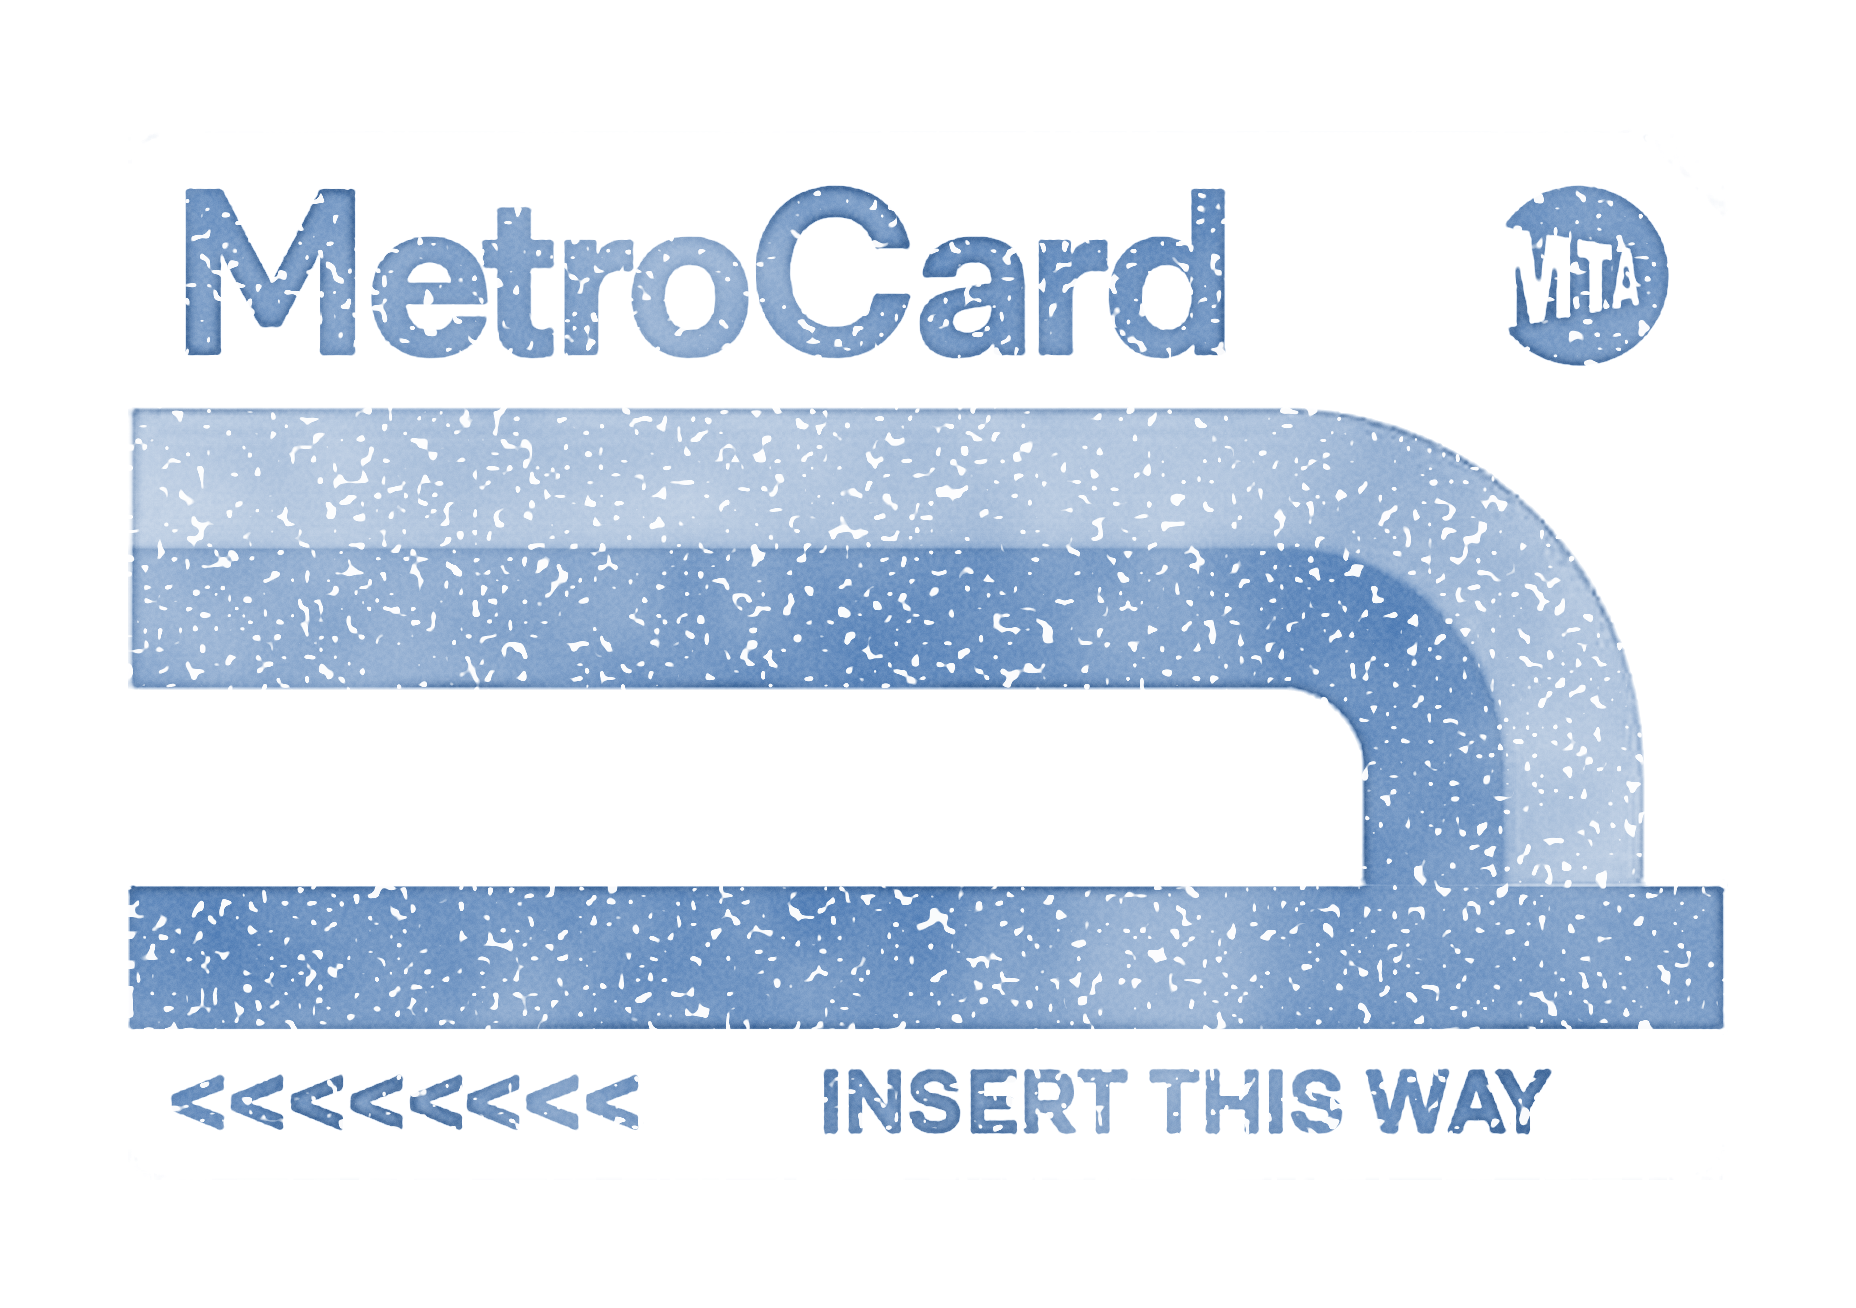
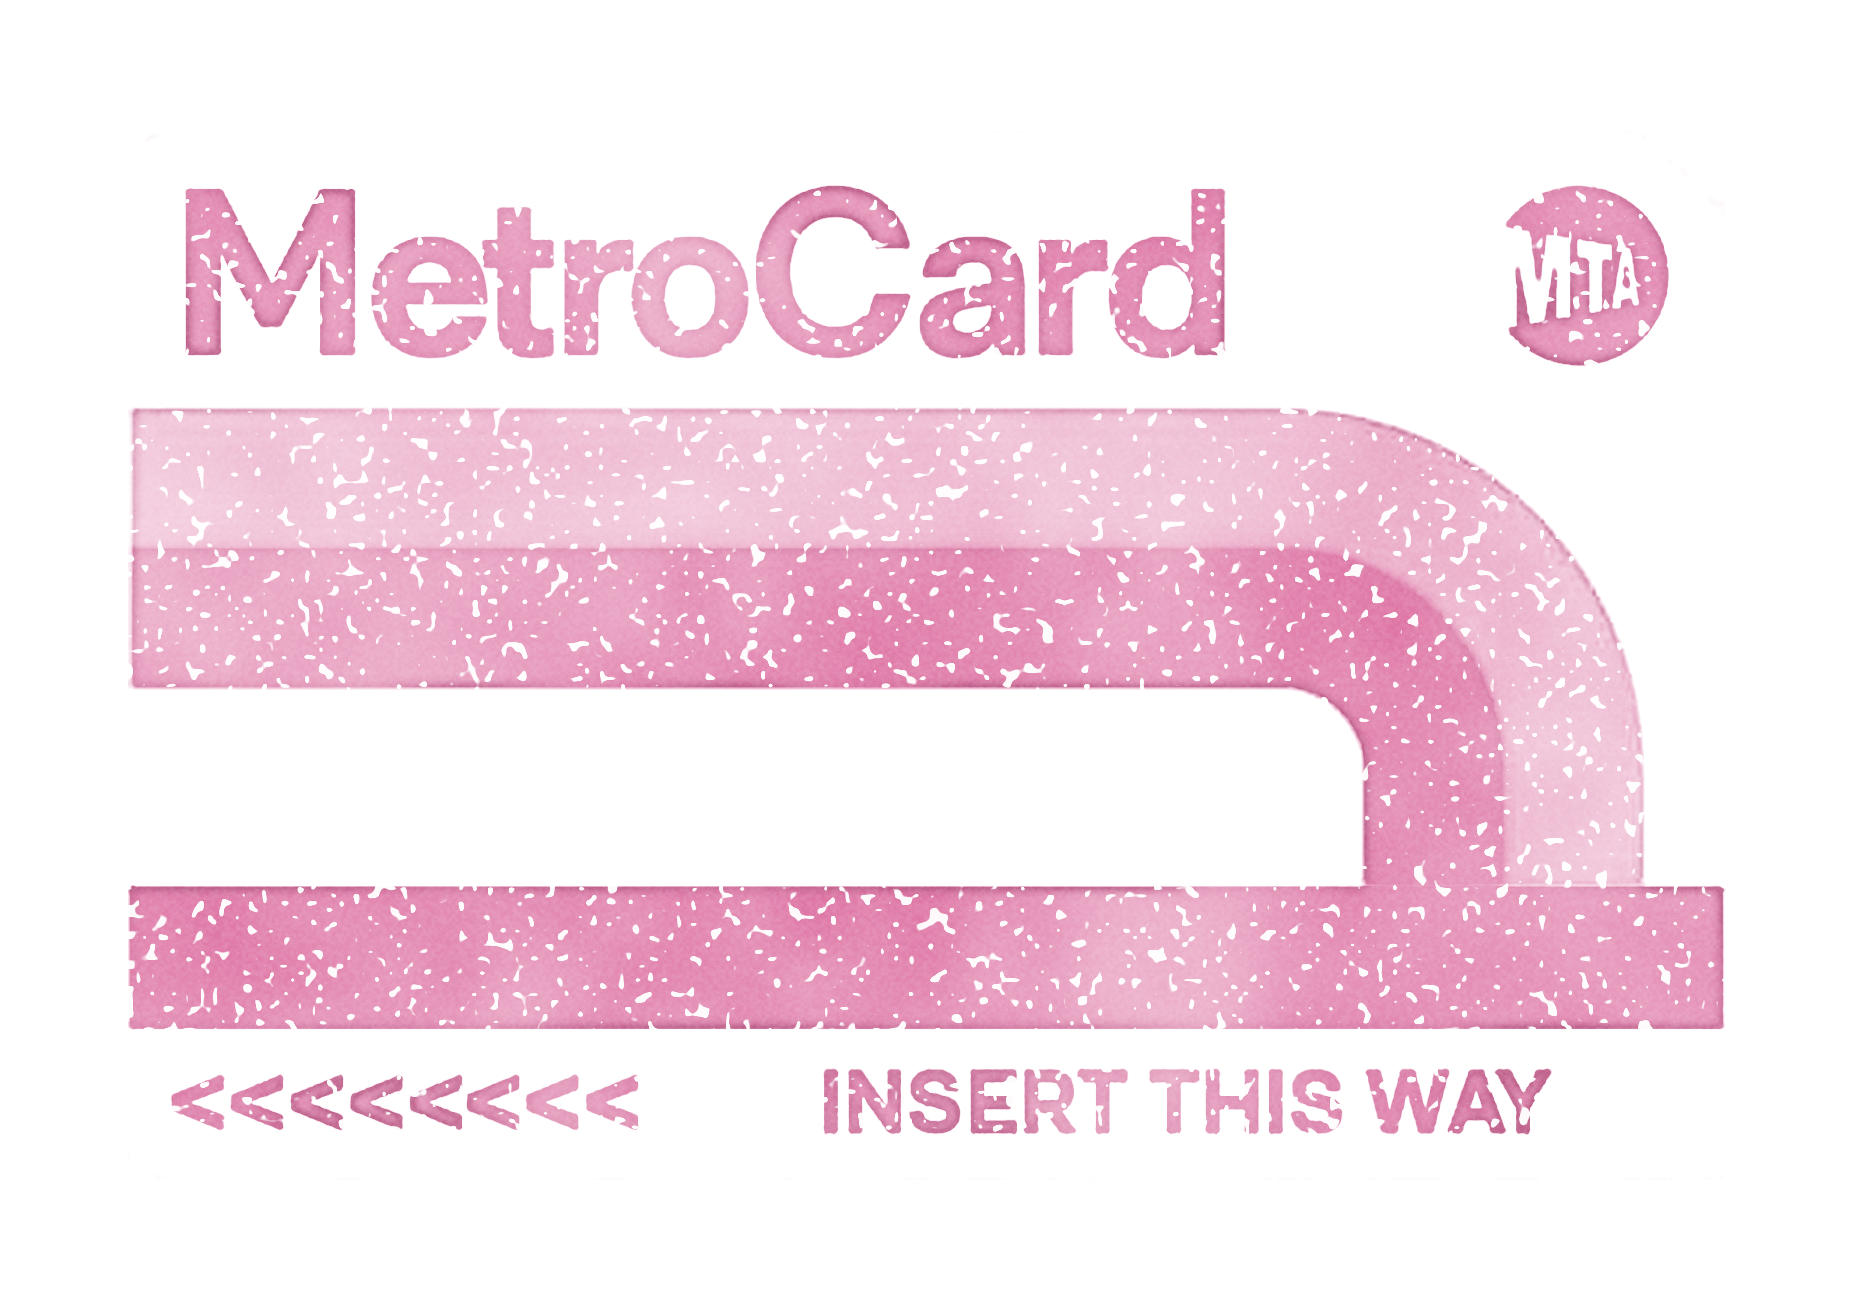
docs: use pink ink for the luminance MetroCard example

diff --git a/README.md b/README.md
@@ -15,7 +15,7 @@ Install the Codex skill from https://github.com/SummonLav/only-ink-stamp.
 **2. Attach an image and run it.** For the example below:
 
 ```text
-Use $ink-stamp to turn the MetroCard in the top right of this image into a blue ink stamp. Keep the text readable, vary the ink density, and make parts of the edges darker.
+Use $ink-stamp to turn the MetroCard in the top right of this image into a pink ink stamp using luminance extraction. Keep the text readable, vary the ink density, and make parts of the edges darker.
 ```
 
 To choose the region and tune the result yourself, ask `$ink-stamp` to open the studio. The skill handles dependency setup and launches the local tool; you do not need to run server commands manually. Python 3.10+ is required.
@@ -33,9 +33,9 @@ See [SKILL.md](SKILL.md) for the workflow and parameter reference.
 
 ## Before → After
 
-![Before and after: the MetroCard selected in the original image, beside the resulting blue ink stamp](docs/images/comparison.png)
+![Before and after: the MetroCard selected in the original image, beside the resulting pink ink stamp](docs/images/comparison.png)
 
-The outline marks the MetroCard in the top right of the original image. The blue stamp on the right comes from that selection, with adjustable ink density, darker edges, and worn patches.
+The outline marks the MetroCard in the top right of the original image. The pink stamp on the right comes from that selection using luminance extraction, with adjustable ink density, darker edges, and worn patches.
 
 [Original image](docs/images/source.png) · [Transparent stamp PNG](docs/images/stamp.png) · [Example settings](docs/examples/metrocard.json)
 

diff --git a/README.zh-CN.md b/README.zh-CN.md
@@ -15,7 +15,7 @@ only-xxx 系列第一作：把你喜欢的图片变成油墨印章。
 **2. 上传图片，直接调用。** 以下面的图片为例：
 
 ```text
-使用 $ink-stamp，把这张图右上角的 MetroCard 做成蓝色油墨印章。保留清晰的文字，让油墨有深浅变化，部分边缘更深。
+使用 $ink-stamp，把这张图右上角的 MetroCard 按明暗提取，做成粉色油墨印章。保留清晰的文字，让油墨有深浅变化，部分边缘更深。
 ```
 
 想自己选择区域、调节效果时，让 `$ink-stamp` 打开工坊即可。Skill 会处理依赖安装并启动本地工具，不需要手动运行服务命令。需要 Python 3.10+。
@@ -33,9 +33,9 @@ git clone https://github.com/SummonLav/only-ink-stamp.git ~/.codex/skills/ink-st
 
 ## 原图 → 印章
 
-![原图与印章效果对比：左侧标出原图右上角的 MetroCard 选区，右侧为蓝色油墨印章](docs/images/comparison.png)
+![原图与印章效果对比：左侧标出原图右上角的 MetroCard 选区，右侧为粉色油墨印章](docs/images/comparison.png)
 
-左侧框线标出原图右上角的 MetroCard；右侧是从该区域提取的蓝色印章。油墨深浅、局部边缘积墨和露白都可以调整。
+左侧框线标出原图右上角的 MetroCard；右侧是从该区域按明暗提取的粉色印章。油墨深浅、局部边缘积墨和露白都可以调整。
 
 [查看原图](docs/images/source.png) · [下载透明印章 PNG](docs/images/stamp.png) · [示例参数](docs/examples/metrocard.json)
 
